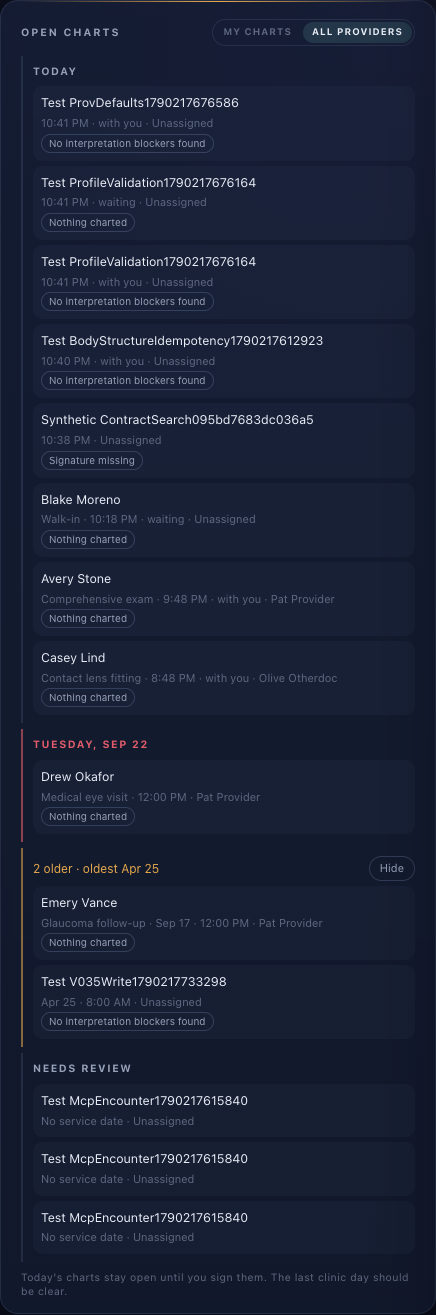
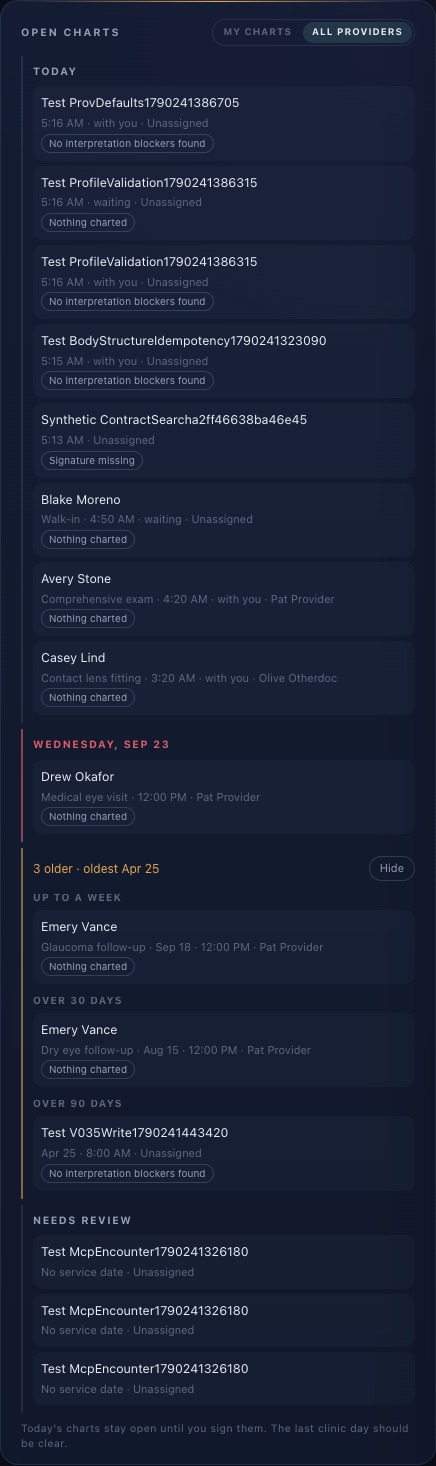
Open charts slice B bundle: fixback 2 record and fresh live evidence

diff --git a/docs/build-log/open-charts-sb/SEALED-BUNDLE.md b/docs/build-log/open-charts-sb/SEALED-BUNDLE.md
@@ -124,8 +124,8 @@ CodeRabbit posted four threads, then one more in a second wave at `947d54d3`. PR
 | L96 a refresh error leaves old counts on the chip | Valid: the chip kept its old number while its class went grey | A failed refresh now replaces the state with `{ error }`. The chip shows "—" and the card shows the sentence. |
 | L99 an older in-flight refresh can overwrite a newer one | Valid: there was no sequence guard | A request counter; only the newest request may settle the state. |
 | L195 expanded Older rows survive a refresh | Valid | The expansion is cleared when the Older summary (count, oldest date, byOwner) changes. An unchanged refresh keeps it open, so it does not collapse every 60 s. Remaining gap: within one refresh, one of the same owner's Older charts is signed and another opens on the same date. |
-| L126 (second wave) same-summary change in Older membership | **Declined in-slice and escalated.** This is the remaining gap noted on L195. Closing it means re-fetching `?expand=older` on each refresh while expanded, or having the refresh carry `expand=older`; either contradicts §0.5 "Show older fetches once per open". | None. Operator decision. The counts shown are always current. |
-| L133 qualify incomplete desk counts and never show `is-ok` when incomplete | **Declined in-slice and escalated.** §0.5 fixes the exact desk line and the chip tones (`is-alert` iff behind > 0), and B9 limits "at least" to the doctor card's Older. Changing either changes the design contract. | None. Operator decision. |
+| L126 (second wave) same-summary change in Older membership | **Escalated; resolved in fixback 2 by operator ruling (Older refreshes while open).** At fixback 1: This is the remaining gap noted on L195. Closing it means re-fetching `?expand=older` on each refresh while expanded, or having the refresh carry `expand=older`; either contradicts §0.5 "Show older fetches once per open". | None. Operator decision. The counts shown are always current. |
+| L133 qualify incomplete desk counts and never show `is-ok` when incomplete | **Escalated; operator ruled 2026-09-24 to leave as is (accepted limit).** At fixback 1: §0.5 fixes the exact desk line and the chip tones (`is-alert` iff behind > 0), and B9 limits "at least" to the doctor card's Older. Changing either changes the design contract. | None. Operator decision. |
 
 Mandate 17 at `93777b4c`, in a disposable worktree:
 
@@ -138,10 +138,55 @@ Mandate 17 at `93777b4c`, in a disposable worktree:
 
 At `93777b4c`: `npm --prefix ui test` gave 1885 tests, 1885 pass, 0 fail (+3). ui `tsc` exit 0. Preflight 0 warnings, 0 blocks. Only UI files changed, so the mcp suite and live lanes were not re-run. B14 ran at `5b129123`; the fixback touches only the refresh and expansion-invalidation paths, which the three tests above guard.
 
+## Fixback 2: Codex FAIL at `8a95e303`
+
+Codex (evaluation record `performance-od/decisions/2026-09-24-odos-open-charts-sb-pr664-eval.md`) returned FAIL with five findings. Operator rulings, 2026-09-24:
+
+- **Finding 3 (incomplete counts):** leave as is. A practice would need about 1,000 open charts before a bounded read comes back incomplete, so the §0.5 desk line and chip tones stand. This is recorded as an accepted limit, not changed.
+- **Finding 4 (Older freshness):** Older **refreshes** while it is open. This amends §0.5 "Show older fetches once per open". Show older still issues one `?expand=older` request when clicked. After that, each 60 s refresh also carries `expand=older` while Older is open, so its rows and its counts always come from the same response.
+- **New, operator request:** the Show older list is grouped by age from the practice's today. The groups are **Up to a week** (0–7 days), **Over 1 week** (8–30), **Over 30 days** (31–60), **Over 60 days** (61–90) and **Over 90 days** (91+). Empty groups are omitted, and rows keep the server's order within each group. This is UI only; the collapsed Older line and the server are unchanged.
+
+| Finding | Change |
+|---|---|
+| 1 Show → Hide → Show lets the earlier response win | Show older now goes through the same numbered request path as the refresh, so only the newest request may settle the state. Unmount also invalidates any request still in flight. |
+| 2 unguarded timer cleanup and chip-vs-toggle | New tests: the interval is registered once at 60,000 ms, is cleared on unmount, and nothing fetches afterwards; the chip's number, text and tone do not change when the card is toggled, using a fixture where mine and all differ. |
+| 4 a signed chart can stay listed in an open Older | The refresh carries `expand=older` while Older is open, as ruled above. This replaces fixback 1's aggregate-fingerprint invalidation. |
+| 5 two added comments in `open-charts-types.ts` | Removed. `diff` against base lines 12–43 now shows only the two `export` keywords. |
+| 3 incomplete counts | No change (operator ruling). |
+
+Mandate 17 at `eb88c164`, in a disposable worktree. Each mutant was checked to have landed, the tree was clean before each GREEN, and the tests ran against `ui/tests/openChartsCard.test.tsx` (18 tests):
+
+| Break | RED | GREEN |
+|---|---|---|
+| R1 any response may settle (no request numbering) | `not ok 13 - a slow older refresh…`, `not ok 15 - reopening Older before the previous request settles…` · 18 / 16 / 2 | 18 / 18 / 0 |
+| R2 unmount does not clear the interval | `not ok 16 - the 60-second refresh is registered once and cleared…` · 18 / 17 / 1 | 18 / 18 / 0 |
+| R3 refresh period 30 s | `not ok 16` · 18 / 17 / 1 | 18 / 18 / 0 |
+| R4 chip follows the card toggle (10-edit, two-file mutant that lifts the scope into the hook) | `not ok 17 - the waiting chip counts the caller's charts whichever way…` · 18 / 17 / 1 | 18 / 18 / 0 |
+| R5 Hide leaves the refresh expanding | `not ok 14 - while Older is open each refresh carries expand=older…` · 18 / 17 / 1 | 18 / 18 / 0 |
+| R6 refresh drops `expand` while open (the old snapshot behaviour) | `not ok 14` · 18 / 17 / 1 | 18 / 18 / 0 |
+| R7 "Over 1 week" starts at 7 days | `not ok 18 - Show older groups rows by age…` · 18 / 17 / 1 | 18 / 18 / 0 |
+| R8 "Over 90 days" starts at 90 days | `not ok 18` · 18 / 17 / 1 | 18 / 18 / 0 |
+| R9 within-group order reversed | `not ok 18` · 18 / 17 / 1 | 18 / 18 / 0 |
+
+Full battery at `eb88c164`: mcp tests 6473, pass 6414, fail 0, skipped 59; `npm --prefix ui test` tests 1889, pass 1889, fail 0 (1885 − 1 replaced + 5 new); all three typechecks exit 0; preflight 0 warnings, 0 blocks.
+
+Live, on a fresh `odos-sb-live2` stack on 18103. `docker volume ls` showed no `odos_dr_drill_*` or `odos-sb*` volumes before `up`. An untracked override gave all three volumes unique `odos-sb-live2-*` names, and they were created fresh. The healthcheck passed on attempt 12. Smoke 12/12, integration 218/218, seeder/repair/sync exit 0, authorization 78/78. B14 was re-run with one added 40-day-old visit:
+
+- Provider My charts: own visit and the Unassigned walk-in shown, the other provider's visit hidden. The last clinic day reads "Wednesday, Sep 23". Chip `4 Open charts · 7 today`, `is-alert`.
+- All providers: the other provider's visit is shown with "Olive Otherdoc".
+- Show older showed the groups **Up to a week / Over 30 days / Over 90 days**. It made one `?expand=older` request on click, and after a 65 s wait with Older open a second `?expand=older` request, the refresh. The rows were still shown and the count was unchanged ("3 older · oldest Apr 25").
+- Staff: one line, "Open charts: 7 today · 1 from Wednesday, Sep 23 · 3 older", with no rows or chips. The only route called was `/desk`.
+- `/clinic/summary` 200 for both roles, no page errors. The front door returns 401 unauthenticated.
+
+The three screenshots in this directory are from this run. Teardown: `down -v` removed only the `odos-sb-live2-*` volumes; `odos-sb-unit-pg` was removed. `docker ps`: `vf-prac1b-walk-db 127.0.0.1:55481->5432/tcp` (not touched).
+
 ## Risks and follow-ups
 
 - **Literal §0.5 reading:** `/clinic/summary` with `practice-time-zone-unreadable` (502) shows "Open charts are unavailable right now." in the Today's-flow error slot, because §0.5 says the same three codes render the same sentences. If the operator wants different summary wording, that is a one-line change to the map in `ui/src/lib/open-charts.ts`.
 - On a summary error the whole waiting strip is still replaced by "Unavailable", including the new chip. That behaviour pre-dates this slice (P1) and was left unchanged.
+- **Accepted limit (operator ruling, finding 3):** when a bounded read comes back incomplete (`complete: false`), the desk line shows plain counts and the chip can be green at zero. The doctor card's Older still says "at least" plus the incomplete note (B9).
+- **Refresh cost while Older is open:** each 60 s refresh asks the server to compute reasons for every Older row. This only happens while a doctor has Older expanded.
+- A failed Show older request now shows the card's error sentence, like any failed refresh, rather than an error confined to the Older section.
 - Refresh runs only when `window.setInterval` exists, the same gate as the Office poller. Server-rendered and window-less test renders never fetch or start timers.
 - If `roles` ever arrive after the first render, the desk route would be called before the doctor route. In the live run roles had already resolved at mount, so staff called only desk and provider only doctor.
 - Out of scope and not done: front-desk badge and panel (C), Close as incomplete (D), waiting on results (E), Q4 admin home, the flow board's ✎ flag and row-order note, other `ODOS_TIMEZONE` readers, the #661 evidence follow-up.
